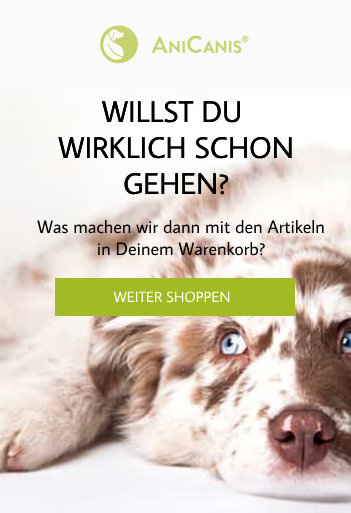
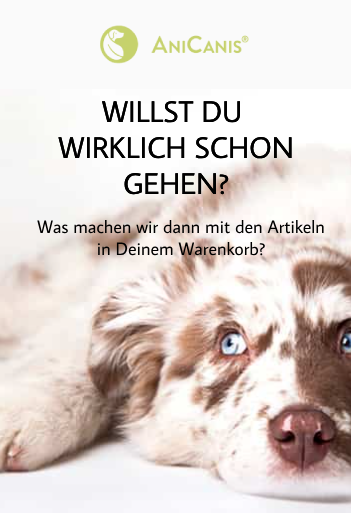
690er Image changed

Changed region(s): [[0.1425, 0.5302, 0.8547, 0.6238]]

diff --git a/improvedStyles.css b/improvedStyles.css
@@ -130,23 +130,30 @@
     margin-bottom: 10px;
 } 
 
-.items-h {
-    left: 5px;
-}
-
 @media only screen and (max-height: 766px) {
     #TopLayerImage {
         flex: 1 1 0;
         background: url('./Images/canis\ overlay\ without\ Cart\ Button.png'); 
     }
+
+    #TopLayerImage .WeiterShoppen {
+        display: none;
+    }
+    
 }
 
 @media only screen and (max-height: 690px) {
     #TopLayerImage {
         flex: 1 1 0;
-        background: url('./Images/canis\ overlay\ image\ ab\ 690px.png'); 
+        background: url('./Images/canis\ overlay\ image\ ab\ 635px.png'); 
     }
 
+    #TopLayerImage .WeiterShoppen {
+        display: inline-block;
+        width:240px;
+        left: 57px;
+        top: 300px;
+    }
 }
 
 @media only screen and (max-height: 635px) {
